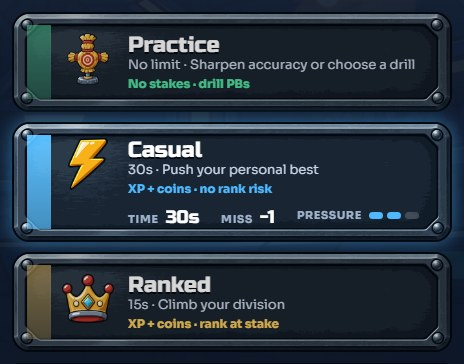
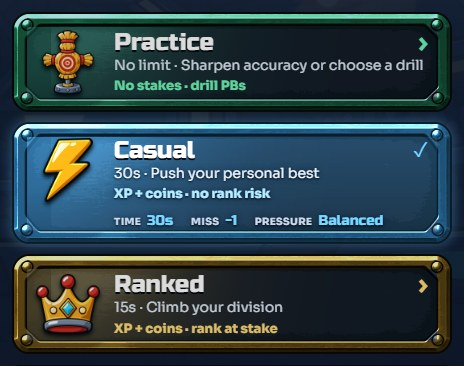
1.) Problem: On the lit plate of the chosen mode, the summary and stakes lines washed out, worst on the gold Ranked card. 2.) Solution: Brighten the chosen plate less, shadow its small text and lighten its stakes colour.

diff --git a/src/styles/game-lobby.css b/src/styles/game-lobby.css
@@ -686,7 +686,10 @@
 .lobbyModeChoice-practice { --mode: 112 245 183; --plate: url('/art/lobby/mode-plate-practice.png'); --selected-plate: url('/art/lobby/mode-plate-practice-selected.png'); }
 .lobbyModeChoice-ranked { --mode: 255 218 118; --plate: url('/art/lobby/mode-plate-ranked.png'); --selected-plate: url('/art/lobby/mode-plate-ranked-selected.png'); }
 .lobbyModeChoice:hover:not(:disabled) { filter: brightness(1.15); }
-.lobbyModeChoice.isSelected { border-image-source: var(--selected-plate); filter: brightness(1.3) drop-shadow(0 0 7px rgb(var(--mode) / .4)); }
+.lobbyModeChoice.isSelected { border-image-source: var(--selected-plate); filter: brightness(1.06) drop-shadow(0 0 7px rgb(var(--mode) / .4)); }
+/* The lit plate is bright; keep the small lines readable on it. */
+.lobbyModeChoice.isSelected :is(.lobbyModeSummary, .lobbyModeReward, .lobbyModeBriefStat) { text-shadow: 0 1px 2px rgb(2 6 14 / .9), 0 0 6px rgb(2 6 14 / .55); }
+.lobbyModeChoice.isSelected .lobbyModeReward { color: color-mix(in srgb, rgb(var(--mode)) 60%, #fff); }
 .lobbyModeChoice::after { content: "›"; grid-area: mark; align-self: center; color: rgb(var(--mode)); font: 26px/1 var(--ca-font-display); }
 .lobbyModeChoice.isSelected::after { content: "✓"; font-size: 20px; }
 .lobbyModeChoice:focus-visible { outline: 3px solid rgb(var(--mode)); outline-offset: 2px; }

diff --git a/tests/e2e/zz-lobby-mode.spec.js b/tests/e2e/zz-lobby-mode.spec.js
@@ -1,7 +1,7 @@
 import { expect, test } from "@playwright/test"
 import { prepareDeterministicPage, gotoRoute } from "./fixtures.js"
 
-const out = "C:/Users/quinl/AppData/Local/Temp/claude/8f5fc2fbe33c61b7/52a8d379-0918-4105-90fd-d3f7d1db2f63/scratchpad/artpass/lobby-sol"
+const out = "C:/Users/quinl/AppData/Local/Temp/claude/8f5fc2fbe33c61b7/52a8d379-0918-4105-90fd-d3f7d1db2f63/scratchpad/artpass/lobby"
 for (const [name, width, height] of [["desktop", 1440, 900], ["tablet", 768, 1024], ["phone", 390, 844], ["narrow", 320, 700]]) {
   test(`lobby mode cards ${name}`, async ({ page }) => {
     await page.setViewportSize({ width, height })
